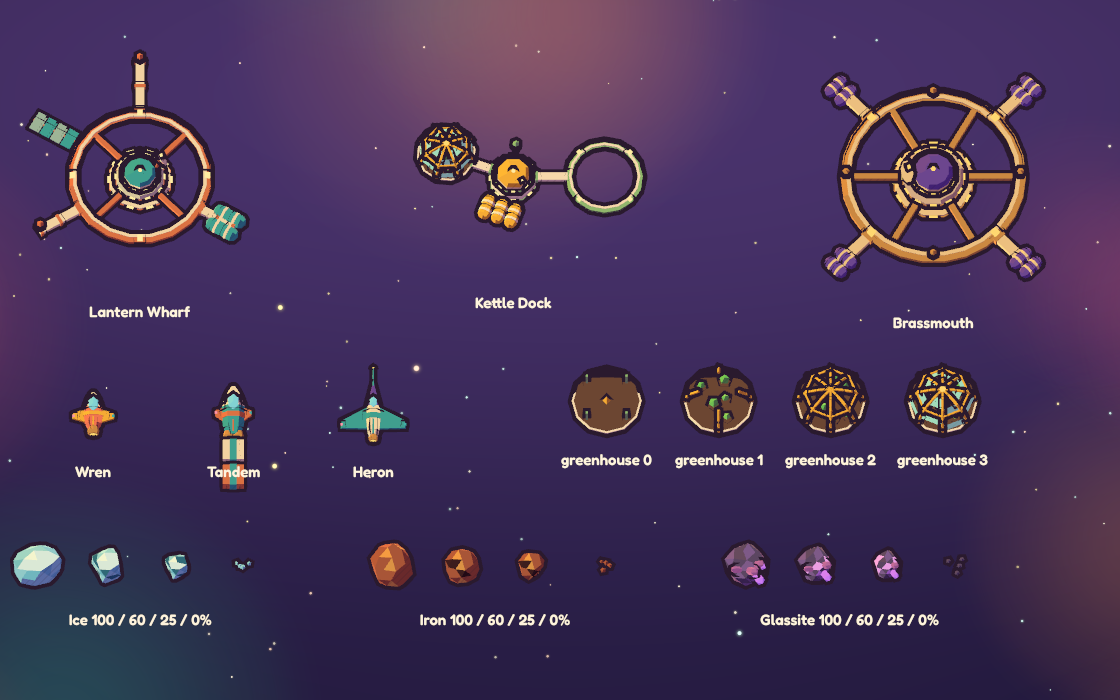
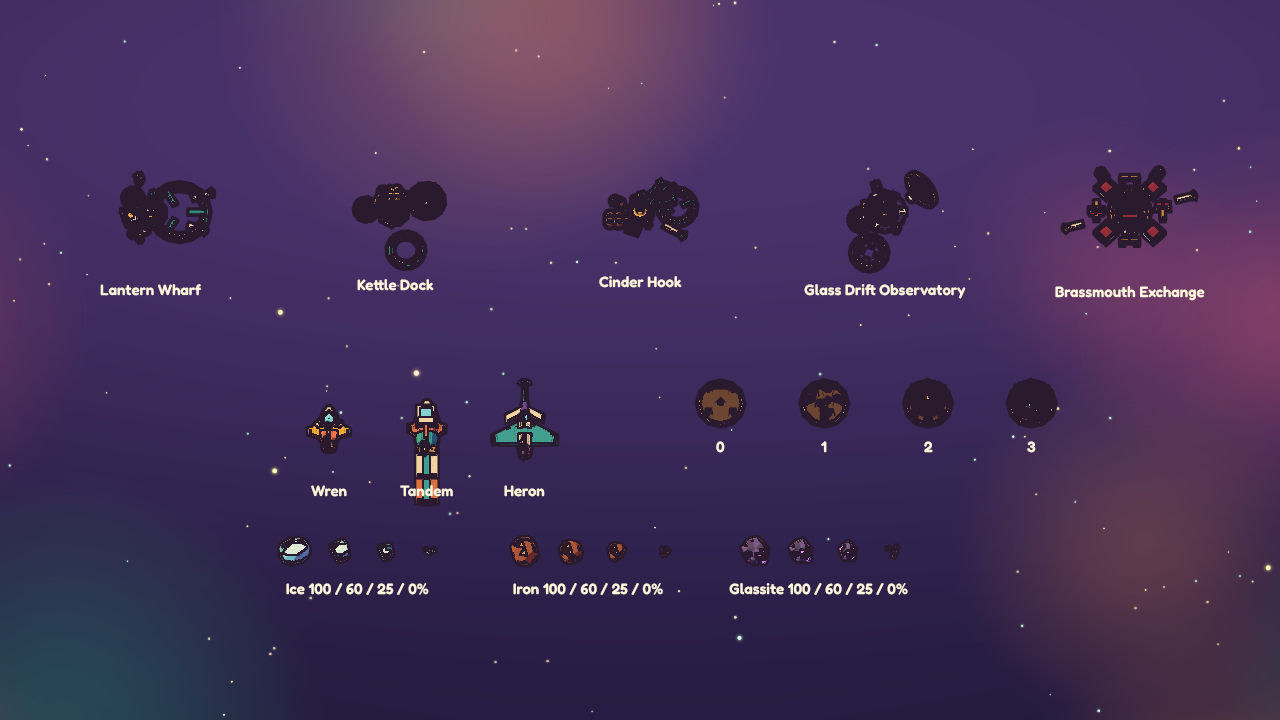
Refresh the kit gallery and two gameplay frames
The gallery gives the greenhouse stages and the hulls room so their
labels read. Mining shows the Wren in the Shallows ice, and the dock
frame is Lantern Wharf with the market open.

diff --git a/slices/01-lantern-reach/crates/render/src/demo.rs b/slices/01-lantern-reach/crates/render/src/demo.rs
@@ -347,15 +347,11 @@ pub fn gallery(renderer: &mut Renderer) -> Scene {
             )],
         };
         let mesh = renderer.upload_mesh(&kit::station(&recipe));
-        let pos = Vec2::new(10.0 + stage as f32 * 24.0, -12.0);
+        let pos = Vec2::new(28.0 + stage as f32 * 36.0, -8.0);
         scene
             .meshes
             .push(MeshInstance::at(mesh, pos, 0.0, 1.0).with_material(station_mat));
-        label(
-            &mut scene,
-            &format!("greenhouse {stage}"),
-            pos - Vec2::Y * 11.0,
-        );
+        label(&mut scene, &stage.to_string(), pos - Vec2::Y * 12.0);
     }
     // Row 2: hulls.
     for (i, p) in [
@@ -367,11 +363,11 @@ pub fn gallery(renderer: &mut Renderer) -> Scene {
     .enumerate()
     {
         let mesh = renderer.upload_mesh(&kit::hull(p, 1));
-        let pos = Vec2::new(-100.0 + i as f32 * 30.0, -14.0);
+        let pos = Vec2::new(-108.0 + i as f32 * 34.0, -16.0);
         scene.meshes.push(
             MeshInstance::at(mesh, pos, std::f32::consts::FRAC_PI_2, 2.2).with_material(ship_mat),
         );
-        label(&mut scene, &format!("{:?}", p.class), pos - Vec2::Y * 12.0);
+        label(&mut scene, &format!("{:?}", p.class), pos - Vec2::Y * 20.0);
     }
     // Row 3: rocks at full, half and nearly gone.
     let kinds = [RockKind::Ice, RockKind::Iron, RockKind::Glassite];
@@ -381,7 +377,7 @@ pub fn gallery(renderer: &mut Renderer) -> Scene {
                 &RockParams::new(*kind, 4.5, *remaining),
                 40 + k as u64,
             ));
-            let pos = Vec2::new(-112.0 + j as f32 * 15.0 + k as f32 * 76.0, -50.0);
+            let pos = Vec2::new(-120.0 + j as f32 * 16.0 + k as f32 * 80.0, -62.0);
             scene
                 .meshes
                 .push(MeshInstance::at(mesh, pos, 0.3, 1.0).with_material(rock_mat));

diff --git a/slices/01-lantern-reach/README.md b/slices/01-lantern-reach/README.md
@@ -52,7 +52,7 @@ A first loop: undock with Space, fly right into the ice field, hold Space beside
 until your hold fills, fly down and right to Kettle Dock (the marker at the screen edge
 points the way), drift into its ring, press Space, and sell.
 
-![The dock screen at Kettle Dock](docs/screenshots/dock.png)
+![The dock screen at Lantern Wharf](docs/screenshots/dock.png)
 
 ## Build and check
 
